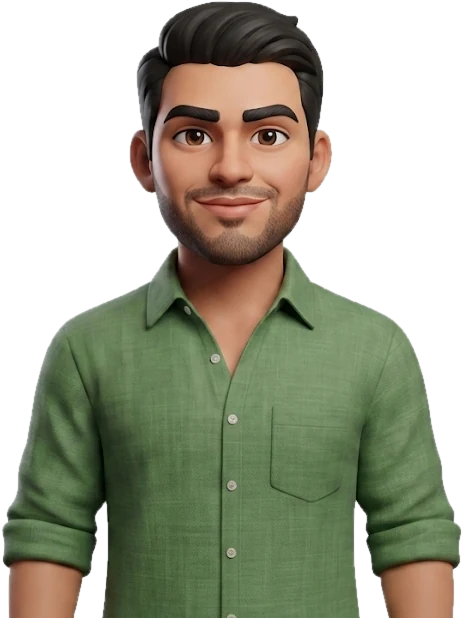
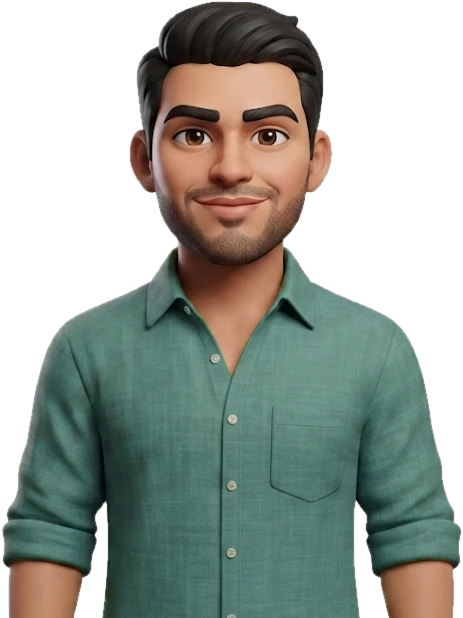
Match the reference shirt colour and move the name onto the chest
Two changes to the hero, both taken from the reference.

The shirt was olive where the reference is sea-green. Sampling both
gave the gap precisely: the avatar sat at hue 97 degrees, the reference
at 166, with saturation already matching at about 0.33. Rotating the
shirt hue by 69 degrees lands it at 165.9. Rotation rather than a flat
fill keeps every fold, shadow, and weave variation in the render. The
selection is gated on hue and saturation together, so skin near 25
degrees and the near-grey buttons below the saturation floor are both
left alone.

The name lockup now sits across the chest where the reference puts it,
replacing the oversized faded wordmark that used to sit below the hero:
"Chaudhari" in tracked accent caps above "Dhruv" in white. It scales
with the container rather than the viewport — cqw units against a
container-type box — so it stays proportional to the figure at every
breakpoint instead of drifting relative to it. The h1 already announces
the name, so the lockup is aria-hidden.

Claude-Session: https://claude.ai/code/session_017xz2zQ28uFEBfcKK2zxcBi

diff --git a/src/components/HeroVisual.tsx b/src/components/HeroVisual.tsx
@@ -6,7 +6,7 @@ import Image from "next/image";
  * asset is the portrait itself, and everything holds still under
  * prefers-reduced-motion (see globals.css).
  */
-export function HeroVisual({ name }: { name: string }) {
+export function HeroVisual({ name, wordmark, surname }: { name: string; wordmark: string; surname: string }) {
   const nodes = [
     { angle: 0, label: "TS" },
     { angle: 72, label: "React" },
@@ -21,7 +21,7 @@ export function HeroVisual({ name }: { name: string }) {
       the box has no in-flow content to size from, and a percentage width inside
       the hero's `auto` grid column collapses it to zero.
     */
-    <div className="relative mx-auto aspect-square w-[280px] sm:w-[360px] lg:w-[400px] xl:w-[420px]">
+    <div className="relative mx-auto aspect-square w-[280px] sm:w-[360px] lg:w-[400px] xl:w-[420px] [container-type:inline-size]">
       {/* Soft green glow behind the figure — the single largest accent moment. */}
       <div
         className="pulse-ring absolute inset-[16%] rounded-full blur-3xl"
@@ -88,6 +88,25 @@ export function HeroVisual({ name }: { name: string }) {
           WebkitMaskImage: "linear-gradient(to bottom, #000 86%, transparent 100%)",
         }}
       />
+
+      {/*
+        Name lockup sitting across the chest, as in the reference. The h1
+        already announces the name, so this repetition is decorative.
+      */}
+      <div
+        className="absolute bottom-[17%] left-1/2 w-full -translate-x-1/2 text-center"
+        aria-hidden="true"
+      >
+        <p className="font-display text-[0.7rem] font-semibold uppercase tracking-[0.42em] text-accent sm:text-[0.8rem]">
+          {surname}
+        </p>
+        <p
+          className="mt-1 font-display font-bold leading-[0.88] tracking-tight text-white"
+          style={{ fontSize: "clamp(2.8rem, 22cqw, 5.2rem)", textShadow: "0 6px 28px rgba(0,0,0,0.55)" }}
+        >
+          {wordmark}
+        </p>
+      </div>
     </div>
   );
 }

diff --git a/src/app/page.tsx b/src/app/page.tsx
@@ -49,7 +49,7 @@ export default function Home() {
             </Reveal>
 
             <Reveal delay={160} className="order-1 drift lg:order-2">
-              <HeroVisual name={profile.name} />
+              <HeroVisual name={profile.name} wordmark={profile.wordmark} surname={profile.surname} />
             </Reveal>
 
             <Reveal delay={240} className="order-3">
@@ -67,21 +67,10 @@ export default function Home() {
               </div>
             </Reveal>
           </div>
-
-          {/* Oversized wordmark, as in the reference */}
-          <Reveal delay={300} className="mt-12">
-            <p
-              className="select-none text-center font-display font-bold tracking-tight text-fg/[0.06]"
-              style={{ fontSize: "clamp(3.5rem, 17vw, 13rem)", lineHeight: 0.85 }}
-              aria-hidden="true"
-            >
-              {profile.wordmark}
-            </p>
-          </Reveal>
         </div>
 
         {/* Toolbelt marquee */}
-        <div className="relative mt-4 overflow-hidden border-y border-border py-5">
+        <div className="relative mt-14 overflow-hidden border-y border-border py-5">
           <div className="marquee-track flex w-max gap-10 pr-10">
             {[...toolbelt, ...toolbelt].map((t, i) => (
               <span

diff --git a/src/lib/content.ts b/src/lib/content.ts
@@ -5,7 +5,8 @@
 
 export const profile = {
   name: "Dhruv Chaudhari",
-  wordmark: "dhruv",
+  wordmark: "Dhruv",
+  surname: "Chaudhari",
   kicker: "Computer Science",
   role: "Computer Science Student",
   discipline: "Full-Stack Developer\n& Software Engineer",
